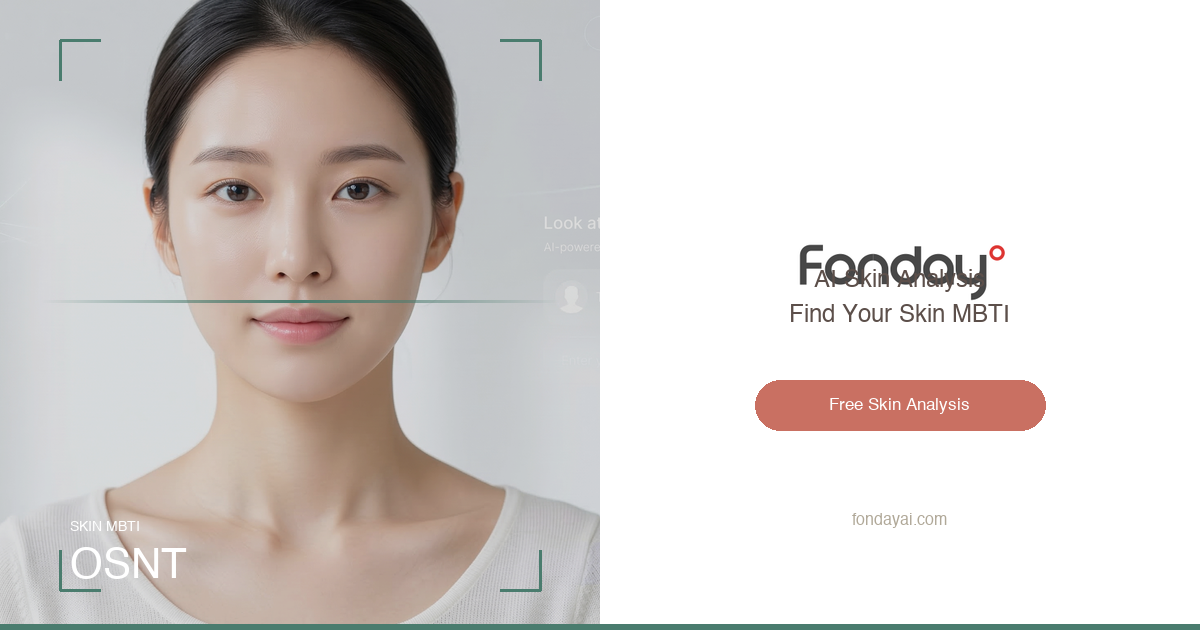
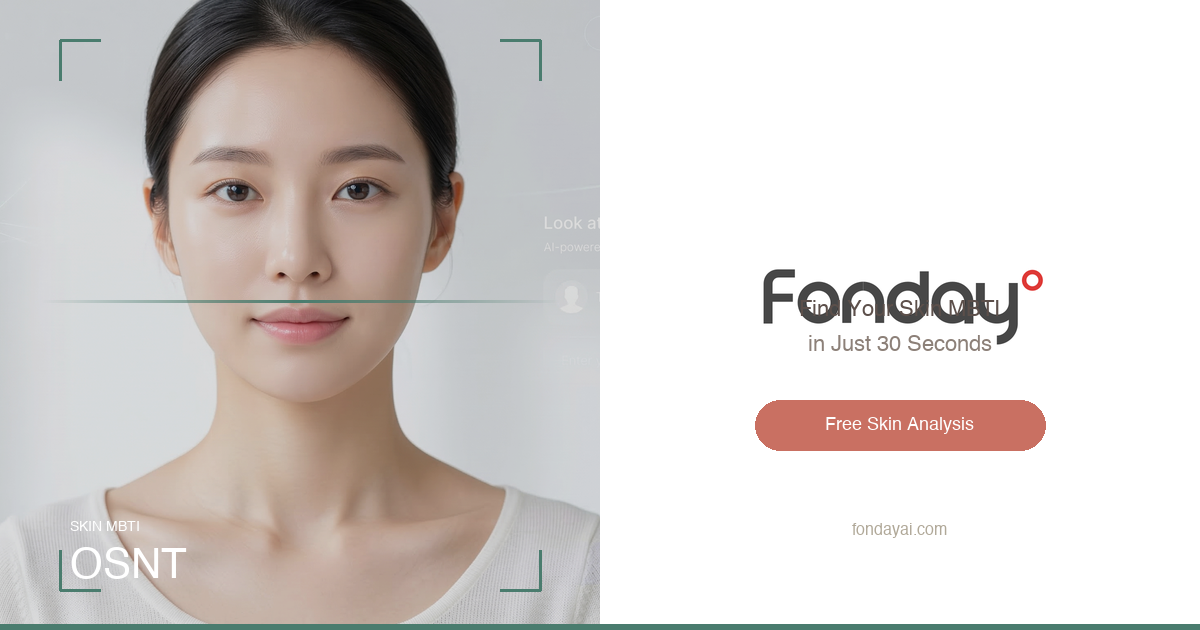
style: OG 이미지 로고 크게 + 텍스트 정리 + og:title 개선
- 로고 300px로 확대, 텍스트 겹침 해결
- og:title: "셀카로 피부 MBTI 진단"
- og:description: "30초면 끝! 16가지 피부 타입 진단 + 맞춤 화장품 추천"

Changed region(s): [[0.6167, 0.3921, 0.8942, 0.573], [0.6167, 0.6032, 0.8942, 0.7238], [0.7092, 0.8143, 0.8017, 0.8444]]

diff --git a/client/index.html b/client/index.html
@@ -30,8 +30,8 @@
     <!-- Open Graph -->
     <meta property="og:type" content="website" />
     <meta property="og:site_name" content="Fonday" />
-    <meta property="og:title" content="Fonday - AI 바우만 피부 타입 스캐너" />
-    <meta property="og:description" content="스마트폰 사진 한 장으로 나의 바우만 피부 타입을 AI가 즉시 진단. 맞춤 스킨케어 루틴과 성분 추천까지 받아보세요." />
+    <meta property="og:title" content="Fonday° — 셀카로 피부 MBTI 진단" />
+    <meta property="og:description" content="30초면 끝! 셀카 한 장으로 16가지 피부 타입 진단 + 맞춤 화장품 추천. 무료로 시작하세요." />
     <meta property="og:url" content="https://fondayai.com/" />
     <meta property="og:image" content="https://fondayai.com/og-image.png" />
     <meta property="og:image:width" content="1200" />
@@ -40,8 +40,8 @@
 
     <!-- Twitter Card -->
     <meta name="twitter:card" content="summary_large_image" />
-    <meta name="twitter:title" content="Fonday - AI 바우만 피부 타입 스캐너" />
-    <meta name="twitter:description" content="스마트폰 사진 한 장으로 나의 바우만 피부 타입을 AI가 즉시 진단. 맞춤 스킨케어 루틴과 성분 추천까지 받아보세요." />
+    <meta name="twitter:title" content="Fonday° — 셀카로 피부 MBTI 진단" />
+    <meta name="twitter:description" content="30초면 끝! 셀카 한 장으로 16가지 피부 타입 진단 + 맞춤 화장품 추천. 무료로 시작하세요." />
     <meta name="twitter:image" content="https://fondayai.com/og-image.png" />
 
     <!-- JSON-LD Structured Data -->

diff --git a/dist/public/index.html b/dist/public/index.html
@@ -30,8 +30,8 @@
     <!-- Open Graph -->
     <meta property="og:type" content="website" />
     <meta property="og:site_name" content="Fonday" />
-    <meta property="og:title" content="Fonday - AI 바우만 피부 타입 스캐너" />
-    <meta property="og:description" content="스마트폰 사진 한 장으로 나의 바우만 피부 타입을 AI가 즉시 진단. 맞춤 스킨케어 루틴과 성분 추천까지 받아보세요." />
+    <meta property="og:title" content="Fonday° — 셀카로 피부 MBTI 진단" />
+    <meta property="og:description" content="30초면 끝! 셀카 한 장으로 16가지 피부 타입 진단 + 맞춤 화장품 추천. 무료로 시작하세요." />
     <meta property="og:url" content="https://fondayai.com/" />
     <meta property="og:image" content="https://fondayai.com/og-image.png" />
     <meta property="og:image:width" content="1200" />
@@ -40,8 +40,8 @@
 
     <!-- Twitter Card -->
     <meta name="twitter:card" content="summary_large_image" />
-    <meta name="twitter:title" content="Fonday - AI 바우만 피부 타입 스캐너" />
-    <meta name="twitter:description" content="스마트폰 사진 한 장으로 나의 바우만 피부 타입을 AI가 즉시 진단. 맞춤 스킨케어 루틴과 성분 추천까지 받아보세요." />
+    <meta name="twitter:title" content="Fonday° — 셀카로 피부 MBTI 진단" />
+    <meta name="twitter:description" content="30초면 끝! 셀카 한 장으로 16가지 피부 타입 진단 + 맞춤 화장품 추천. 무료로 시작하세요." />
     <meta name="twitter:image" content="https://fondayai.com/og-image.png" />
 
     <!-- JSON-LD Structured Data -->
